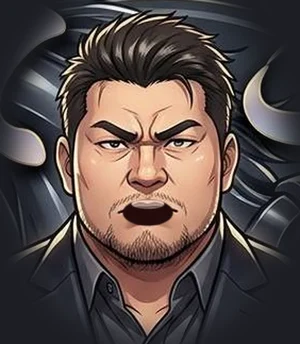
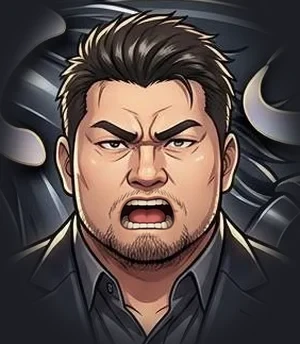
拡大したテレビの馬を 2 倍の絵に・実況（イラストの版）の口を作り直して口パクに（オーナー「拡大した時の馬の紹介の馬が引き伸ばした感じ」「小窓の中の川崎タカシのアニメの唇がおかしい」）: 拡大したテレビは 1 倍の絵（1 コマ 544px）を 2〜4 倍に引き伸ばしていた → 立ち姿・歩きとも -2x の表に。ti の開けた口 3 枚は平たい黒い塊だった → Codex で口だけ開けた絵を作り、閉じた絵に口のまわりだけ貼る（compose-narrator-mouth.mjs --cast ti・楕円の外の差 平均 5/255）。テレビの実況の顔は閉じた顔の上で開けた口を点滅させる（止める設定

Changed region(s): [[0.39, 0.5233, 0.6, 0.6977]]

diff --git a/apps/web/src/components/uma/channel-tv.tsx b/apps/web/src/components/uma/channel-tv.tsx
@@ -65,6 +65,8 @@ export interface ChannelTvProps {
   readonly wipe: boolean;
   /** ★本編が この箱の上に重なっているか（★上の帯に「● 中継」） */
   readonly onAir: boolean;
+  /** ★拡大したテレビ（★馬の絵を 2 倍の表に） */
+  readonly hires?: boolean;
 }
 
 export function ChannelTv(p: ChannelTvProps): React.ReactElement {
@@ -85,9 +87,9 @@ export function ChannelTv(p: ChannelTvProps): React.ReactElement {
         {(show === 'odds' || show === 'card') && p.race !== null
           && <Table kind={show} size={p.size} now={p.now} runners={p.runners} odds={p.odds} race={p.race} />}
         {show === 'paddock' && p.now.horseIndex !== null && p.order[p.now.horseIndex] !== undefined
-          && <Paddock horse={p.order[p.now.horseIndex]!} index={p.now.horseIndex} field={field} />}
+          && <Paddock horse={p.order[p.now.horseIndex]!} index={p.now.horseIndex} field={field} hires={p.hires === true} />}
         {show === 'horse' && p.now.horseIndex !== null && p.order[p.now.horseIndex] !== undefined
-          && <HorseCard horse={p.order[p.now.horseIndex]!} field={field} />}
+          && <HorseCard horse={p.order[p.now.horseIndex]!} field={field} hires={p.hires === true} />}
         {show === 'narr' && <Narr text={p.narration} />}
         {show === 'venue' && p.venue !== null && <VenueShow venue={p.venue} />}
         {show === 'course' && p.venue !== null && p.race !== null && <CourseShow venue={p.venue} race={p.race} />}
@@ -173,8 +175,8 @@ function Table({ kind, size, now, runners, odds, race }: {
  * ★立ち姿 1 枚（★毛色は 馬体の画素だけ・★歩きの 8 コマは使わない・§6）。
  * 🔴 ★2026-10-01: ★見本の `train-body-idle`（★細身の別の絵柄）は ★ホームの馬と違う馬に見えた（オーナー指摘）→ ★ホーム・育成と同じ立ち姿 `horse-stand`。
  */
-function StandingHorse({ horseId, className }: { readonly horseId: string | null; readonly className: string }): React.ReactElement {
-  const url = useCoatedImage('/art/uma/horse-stand.webp', coatOfHorseId(horseId ?? 'unknown'));
+function StandingHorse({ horseId, className, hires }: { readonly horseId: string | null; readonly className: string; readonly hires: boolean }): React.ReactElement {
+  const url = useCoatedImage(hires ? '/art/uma/horse-stand-2x.webp' : '/art/uma/horse-stand.webp', coatOfHorseId(horseId ?? 'unknown'));
   return <div className={className} style={url === null ? undefined : { backgroundImage: `url('${url}')` }} />;
 }
 
@@ -184,9 +186,9 @@ function StandingHorse({ horseId, className }: { readonly horseId: string | null
  *   ★馬番は ★胴に乗せない（★ゼッケンに見えない札だった）→ ★左上に ★枠の色の札 ＋ 馬名。★斤量は右下に小さく。
  *   ★停止スイッチ・「動きを減らす」では ★立ち姿で止める（★CSS で歩きを隠す）。
  */
-function Paddock({ horse, index, field }: { readonly horse: ChannelRunner; readonly index: number; readonly field: number }): React.ReactElement {
+function Paddock({ horse, index, field, hires }: { readonly horse: ChannelRunner; readonly index: number; readonly field: number; readonly hires: boolean }): React.ReactElement {
   return <div className="u-tv-paddock">
-    <WalkingHorse horseId={horse.horseId} />
+    <WalkingHorse horseId={horse.horseId} hires={hires} />
     <div className="u-tv-paddock-id">
       <span className="u-tv-paddock-gate u-num" style={gateStyle(horse.gate, field)}>{horse.gate}</span>
       <span className="u-tv-l">{horse.name}</span>
@@ -197,10 +199,10 @@ function Paddock({ horse, index, field }: { readonly horse: ChannelRunner; reado
 }
 
 /** ★歩く馬（★歩きの 8 コマ ＋ 止めるとき用の立ち姿。★どちらを見せるかは CSS） */
-function WalkingHorse({ horseId }: { readonly horseId: string | null }): React.ReactElement {
+function WalkingHorse({ horseId, hires }: { readonly horseId: string | null; readonly hires: boolean }): React.ReactElement {
   const coat = coatOfHorseId(horseId ?? 'unknown');
-  const walk = useCoatedImage('/art/uma/horse-walk-sheet.webp', coat);
-  const stand = useCoatedImage('/art/uma/horse-stand.webp', coat);
+  const walk = useCoatedImage(hires ? '/art/uma/horse-walk-sheet-2x.webp' : '/art/uma/horse-walk-sheet.webp', coat);
+  const stand = useCoatedImage(hires ? '/art/uma/horse-stand-2x.webp' : '/art/uma/horse-stand.webp', coat);
   return <div className="u-tv-paddock-horse">
     {/* ⚠ ★`800% 100%` と ★`u-walk` ＋ `steps(8, jump-none)` は ★対（★ホームの OwnHorseFigure と同じ） */}
     <span className="u-tv-paddock-walk" style={walk === null ? undefined : { backgroundImage: `url('${walk}')` }} />
@@ -208,11 +210,11 @@ function WalkingHorse({ horseId }: { readonly horseId: string | null }): React.R
   </div>;
 }
 
-function HorseCard({ horse, field }: { readonly horse: ChannelRunner; readonly field: number }): React.ReactElement {
+function HorseCard({ horse, field, hires }: { readonly horse: ChannelRunner; readonly field: number; readonly hires: boolean }): React.ReactElement {
   const strategy = strategyLabel(horse.strategy);
   return <div className="u-tv-horse">
     <div className="u-tv-horse-thumb">
-      <StandingHorse horseId={horse.horseId} className="u-tv-horse-art" />
+      <StandingHorse horseId={horse.horseId} className="u-tv-horse-art" hires={hires} />
       <span className="u-tv-gate u-num u-tv-horse-gate" style={gateStyle(horse.gate, field)}>{horse.gate}</span>
     </div>
     <div className="u-tv-horse-info">
@@ -235,7 +237,8 @@ function HorseCard({ horse, field }: { readonly horse: ChannelRunner; readonly f
 function Narr({ text }: { readonly text: string }): React.ReactElement {
   return <div className="u-tv-narr">
     <div className="u-tv-narr-who">
-      <div className="u-tv-narr-face" aria-hidden />
+      {/* ★口パク（★2026-10-02 オーナー「アニメの唇がおかしい」）: ★閉じた顔の上に ★開けた口の顔を 点滅させる（★止める設定では 閉じたまま） */}
+      <div className="u-tv-narr-face" aria-hidden><span className="u-tv-narr-mouth" /></div>
       <div className="u-tv-narr-name">実況 川崎 タカシ</div>
     </div>
     <div className="u-tv-narr-bubble"><div className="u-tv-narr-text">{text}</div></div>

diff --git a/apps/web/src/components/uma/channel-tv.css b/apps/web/src/components/uma/channel-tv.css
@@ -182,8 +182,16 @@
 [data-theme='uma'] .u-tv-narr-who { flex: 0 0 auto; display: flex; flex-direction: column; align-items: center; gap: 4px; }
 [data-theme='uma'] .u-tv-narr-face {
   width: var(--tv-face); height: var(--tv-face); border-radius: 50%; border: 3px solid #f6c21c; box-sizing: border-box;
-  box-shadow: inset 0 0 0 2px #0a2340, 0 2px 0 rgba(10, 35, 64, .6); background: #0a2340 url('/art/narrator-ti-normal-open.webp') no-repeat center 20% / 115%;
+  box-shadow: inset 0 0 0 2px #0a2340, 0 2px 0 rgba(10, 35, 64, .6); position: relative; overflow: hidden; background: #0a2340 url('/art/narrator-ti-closed.webp') no-repeat center 20% / 115%;
 }
+/* ★口パク: ★開けた口の顔を 閉じた顔の上で 不規則に点滅（★喋っているように・★1 周 1.3 秒） */
+[data-theme='uma'] .u-tv-narr-mouth {
+  position: absolute; inset: 0; background: url('/art/narrator-ti-normal-open.webp') no-repeat center 20% / 115%;
+  opacity: 0; animation: u-tv-narr-talk 1.3s steps(1, end) infinite;
+}
+@keyframes u-tv-narr-talk { 0% { opacity: 1; } 14% { opacity: 0; } 24% { opacity: 1; } 42% { opacity: 0; } 50% { opacity: 1; } 62% { opacity: 0; } 76% { opacity: 1; } 88% { opacity: 0; } 100% { opacity: 0; } }
+[data-theme='uma'].u-paused .u-tv-narr-mouth, [data-theme='uma'] .u-paused .u-tv-narr-mouth { animation: none; opacity: 0; }
+@media (prefers-reduced-motion: reduce) { [data-theme='uma'] .u-tv-narr-mouth { animation: none; opacity: 0; } }
 [data-theme='uma'] .u-tv-narr-name { font-size: 10px; white-space: nowrap; color: #cfe0ee; }
 [data-theme='uma'] .u-tv-narr-bubble {
   position: relative; flex: 1 1 auto; min-width: 0; padding: 8px 12px; border-radius: 12px; background: #fbf7ec; color: #10243a; font-size: var(--tv-narr); line-height: 1.5;

diff --git a/apps/web/src/components/uma/strip-channel.tsx b/apps/web/src/components/uma/strip-channel.tsx
@@ -46,6 +46,11 @@ export interface StripChannelProps {
   readonly reducedMotion: boolean;
   /** ★本編が この箱の上に重なっている（★上の帯に「● 中継」） */
   readonly onAir: boolean;
+  /**
+   * ★**拡大したテレビ**（★PC の大きさで描いて 画面いっぱいへ拡げる）では ★馬の絵を 2 倍の表に（★2026-10-02 オーナー
+   *   「拡大した時の馬の紹介の馬が 引き伸ばした感じで 小窓よりクオリティが悪い」: ★1 倍の絵（1 コマ 544px）を 2〜4 倍に引き伸ばしていた）。
+   */
+  readonly hires?: boolean;
 }
 
 const hhmm = (ms: number): string => {
@@ -116,5 +121,6 @@ export function StripChannel(p: StripChannelProps): React.ReactElement {
     footL={footL} footM={footM} footR={footR} toStart={left === null ? '' : mss(left)}
     wipe={wipeKey > 0 && !p.reducedMotion && now.sinceSec < 0.45}
     onAir={p.onAir}
+    hires={p.hires === true}
   />;
 }

diff --git a/apps/web/src/components/uma/race-strip.tsx b/apps/web/src/components/uma/race-strip.tsx
@@ -758,7 +758,7 @@ function RaceStripBody(): React.ReactElement | null {
         recentRunners={data?.runners ?? []} recentId={recent?.id ?? null} field={data?.nextField ?? []}
         myGates={myGates !== null && myGates.key === mineKey ? myGates.set : null}
         profiles={profiles !== null && profiles.id === nextId ? profiles.map : null}
-        reducedMotion={motionReduced} onAir={false} />
+        reducedMotion={motionReduced} onAir={false} hires />
     </div>
   </div> : null;
   const channelEl = tvMode !== null && nowMs !== null ? <StripChannel
